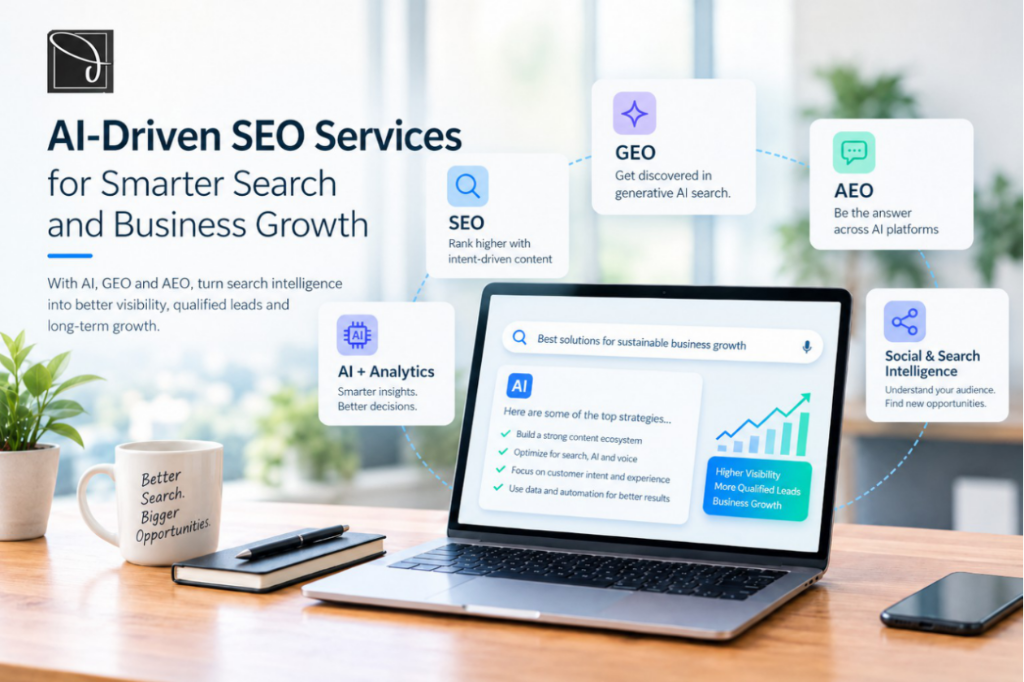
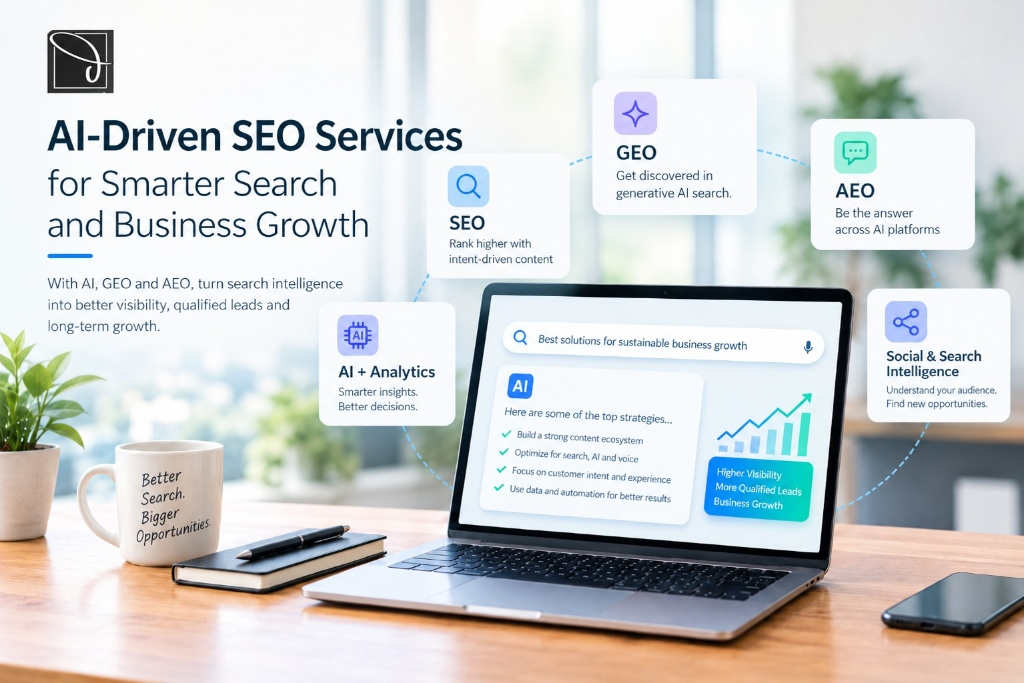
feat: add new ai-driven seo services blog data and cover images

diff --git a/public/locale/blogs-data.ts b/public/locale/blogs-data.ts
@@ -191,7 +191,7 @@ export const BLOGS_DATA: BlogProps[] = [
           "Continuous feedback loops from research to learning transform search into a measurable business growth channel.",
       },
     ],
-    coverImage: "/images/blogs/ai-driven-seo-services.png",
+    coverImage: "/images/blogs/ai-driven-seo-services.jpg",
     tags: [
       "AI SEO",
       "Search Intelligence",
